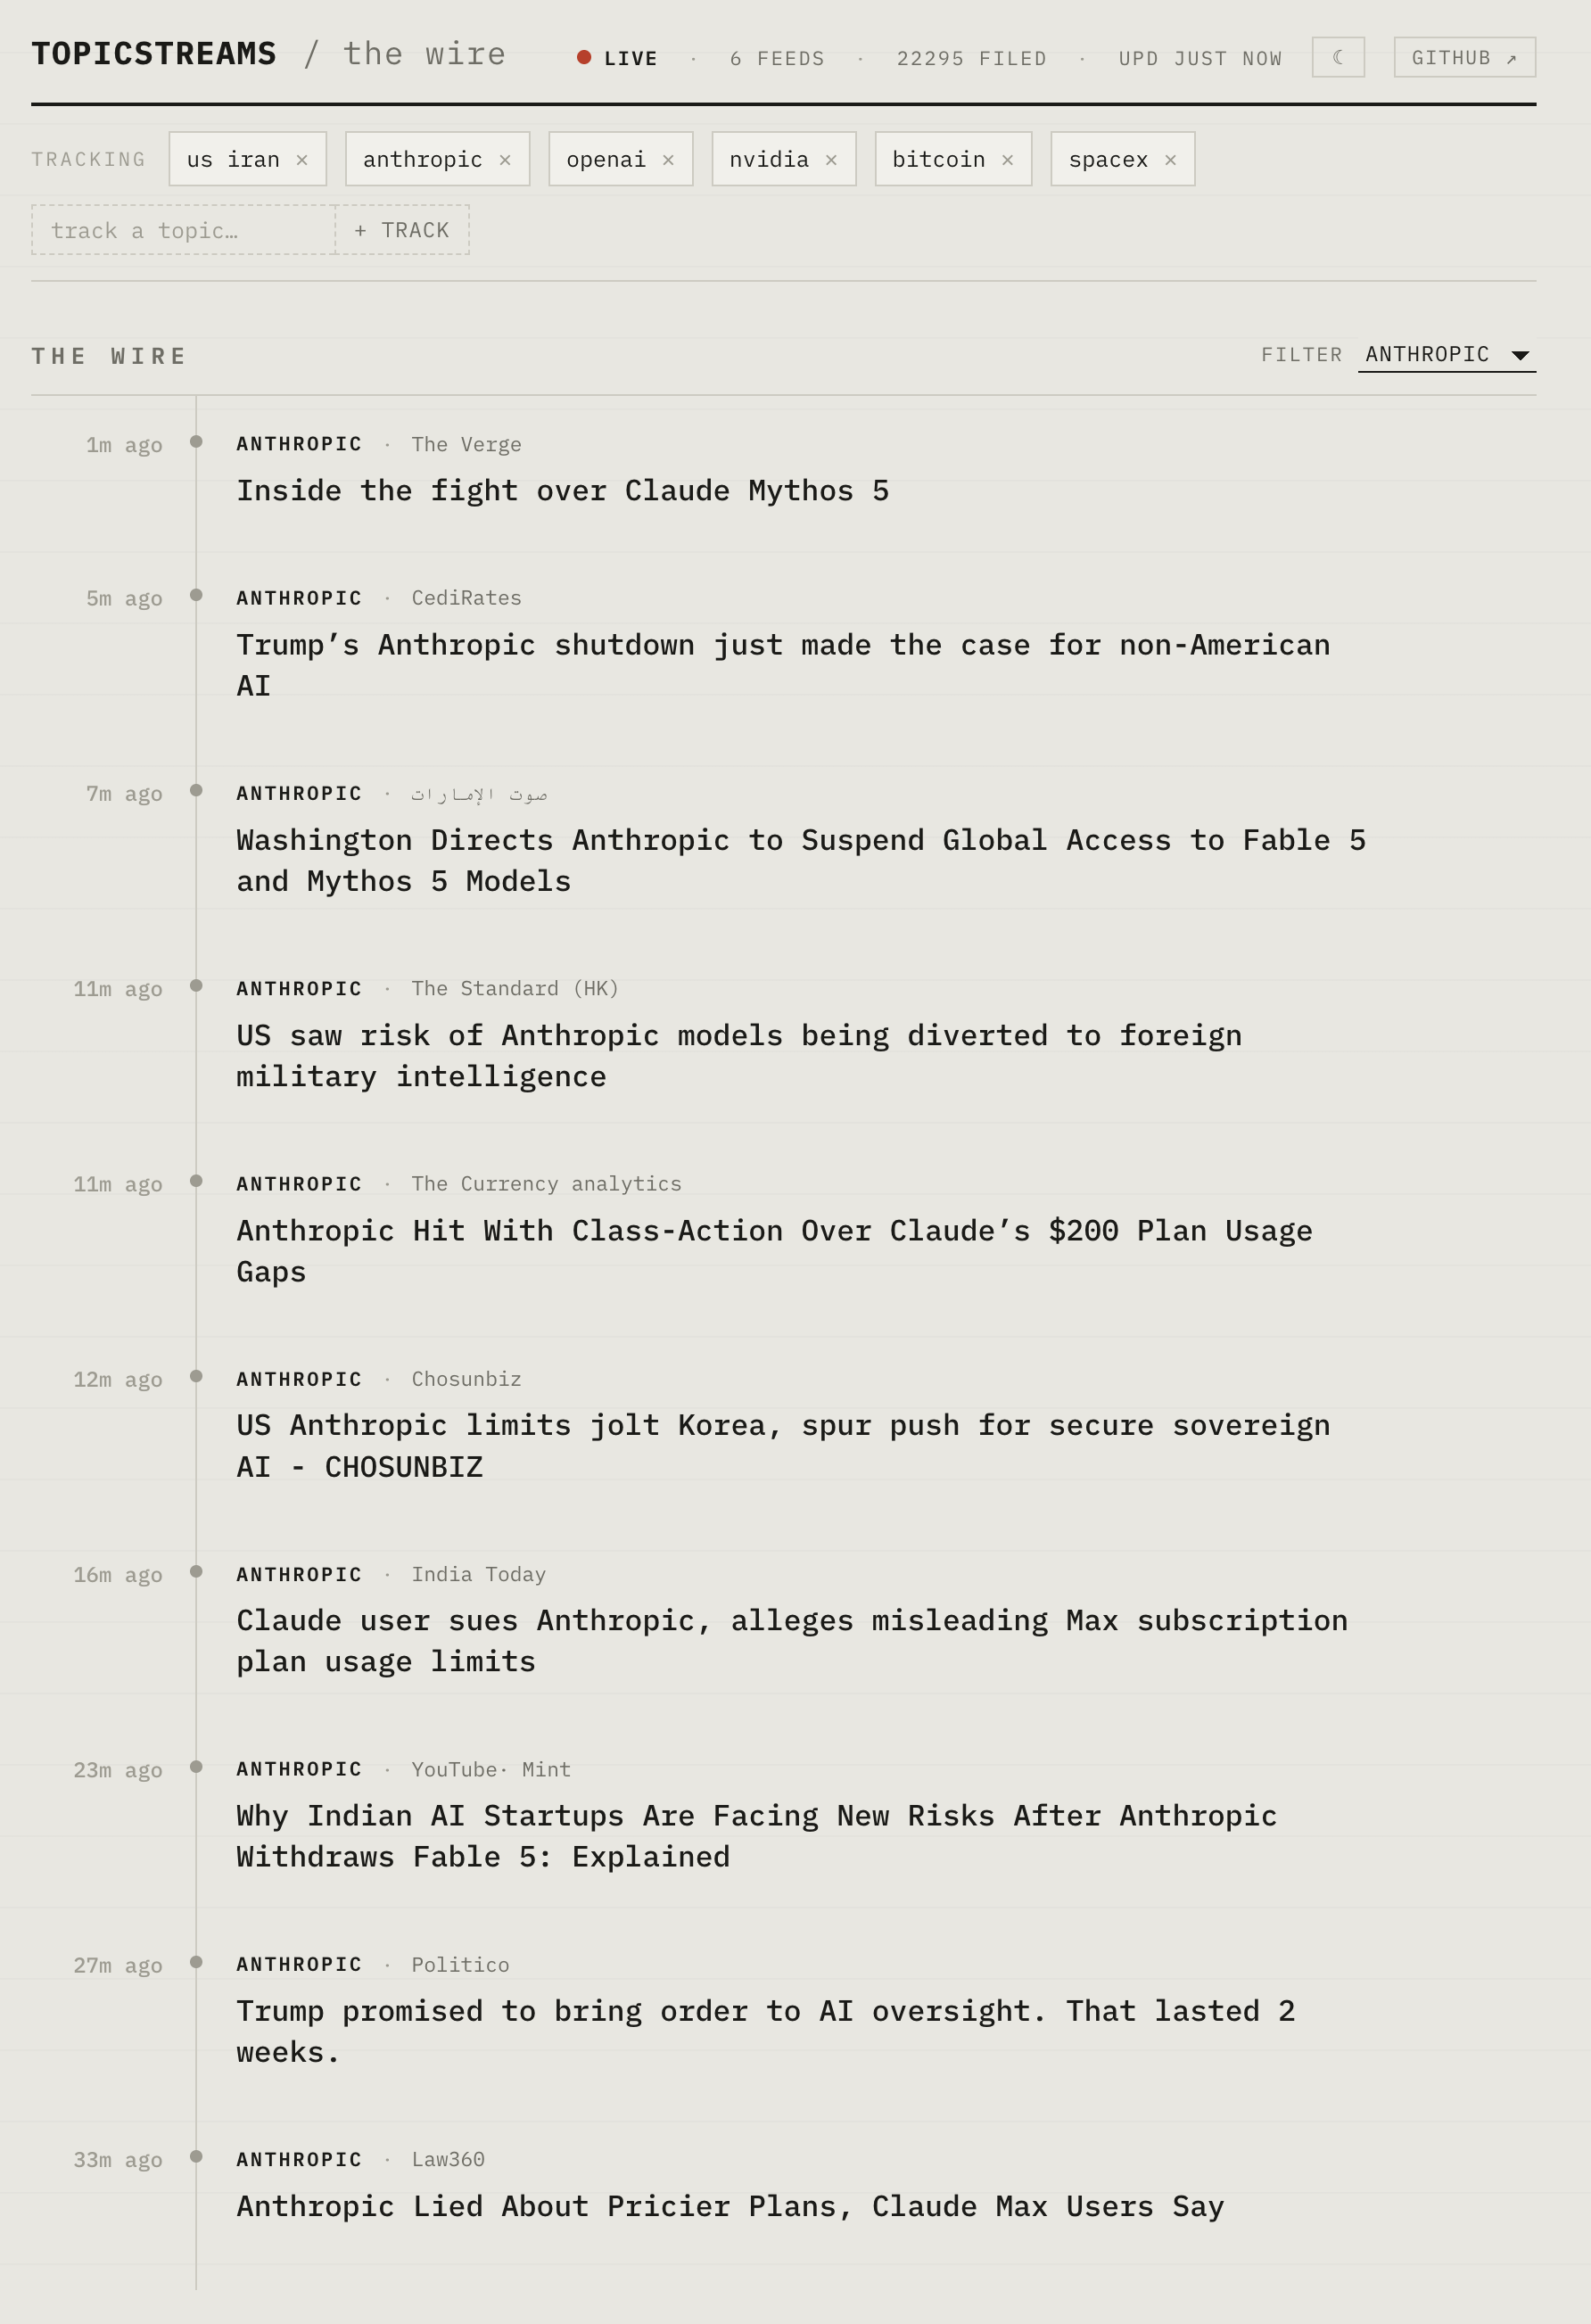
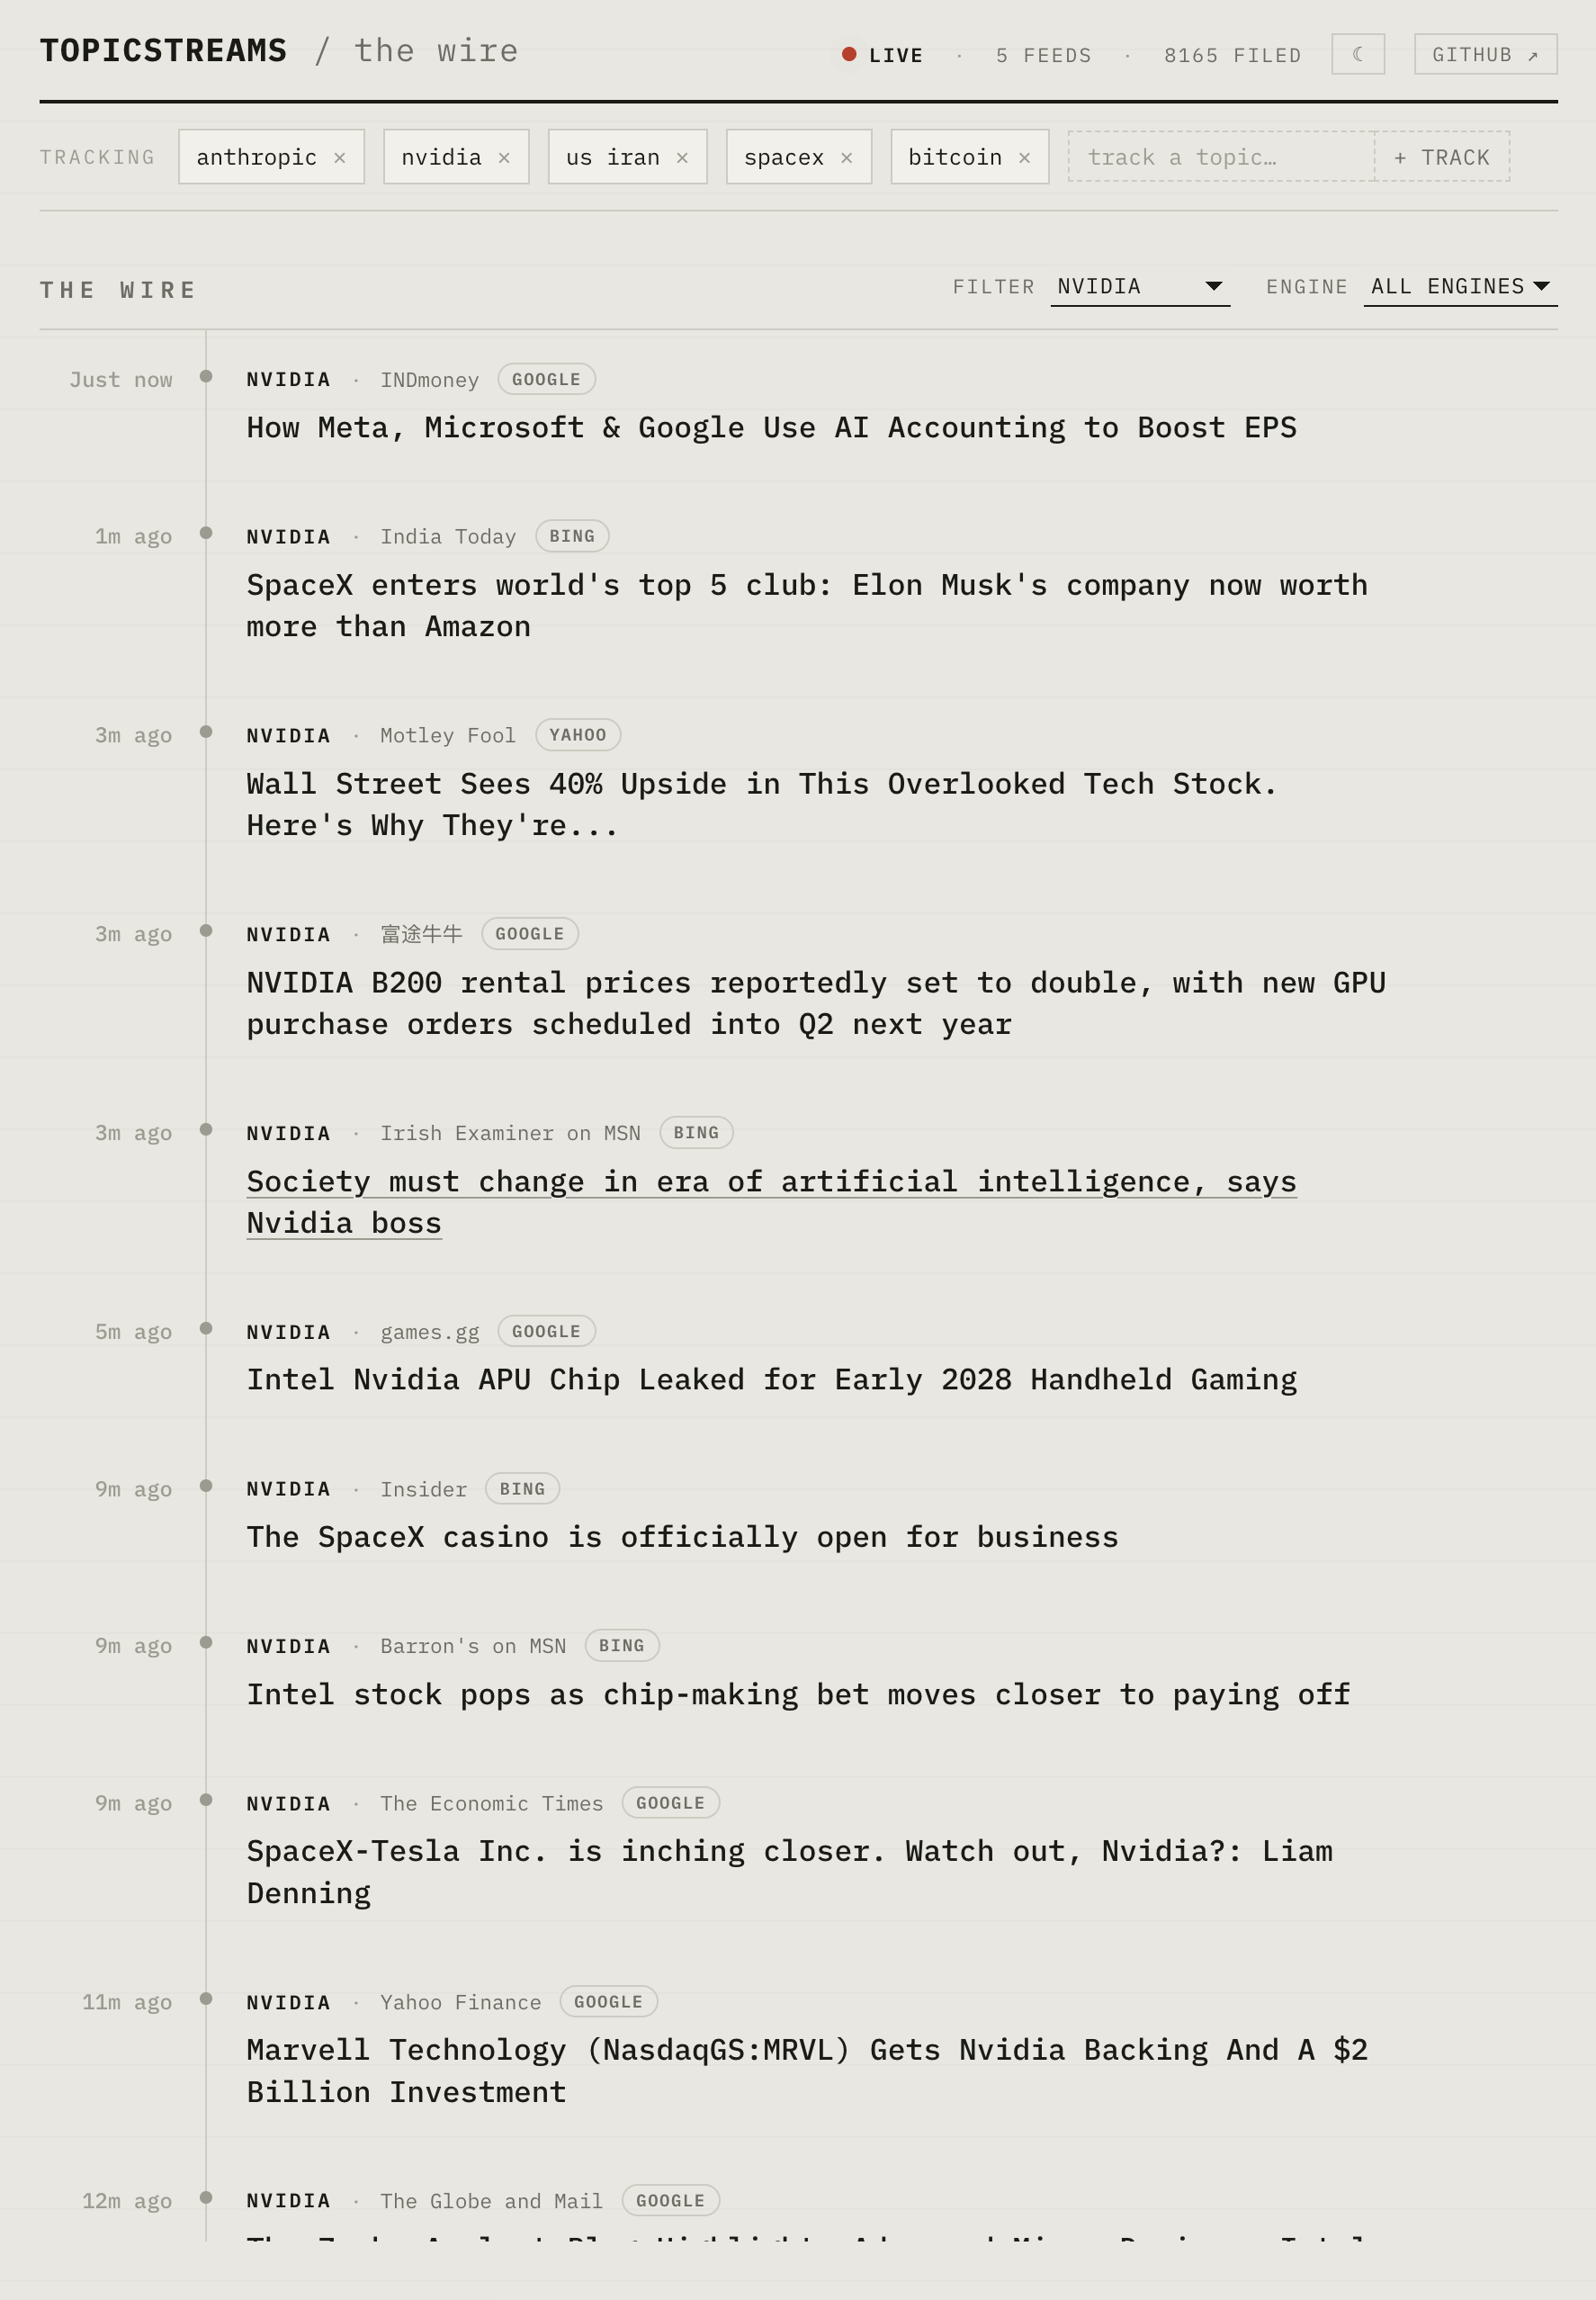
Update UI screenshot and reformat docs markdown

diff --git a/docs/CONFIGURATION.md b/docs/CONFIGURATION.md
@@ -48,20 +48,20 @@ vim config/anti_detection.yml
 
 ### API Settings
 
-| Variable    | Default | Description                                                      |
-| ----------- | ------- | ---------------------------------------------------------------- |
-| `API_PORT`   | `5000`  | Port inside the container where FastAPI listens                  |
-| `HOST_PORT`  | `5000`  | Port exposed on the host (set to `80` for production deployment) |
+| Variable     | Default | Description                                                              |
+| ------------ | ------- | ------------------------------------------------------------------------ |
+| `API_PORT`   | `5000`  | Port inside the container where FastAPI listens                          |
+| `HOST_PORT`  | `5000`  | Port exposed on the host (set to `80` for production deployment)         |
 | `LOG_FORMAT` | `text`  | `text` (human-readable) or `json` (structured logs, one object per line) |
 
 > **Note:** The `HOST_PORT` is mapped to `API_PORT` (e.g., `HOST_PORT=80` and `API_PORT=5000` means the app listens on container port 5000 but is accessible via host port 80). For production deployments, set `HOST_PORT=80` to use the standard HTTP port.
 
 ### Security Settings
 
-| Variable              | Default | Description                                                                                                                                              |
-| --------------------- | ------- | ------------------------------------------------------------------------------------------------------------------------------------------------------ |
-| `API_KEY`             | (unset) | When set, `POST`/`DELETE /api/v1/topics` require a matching `X-API-Key` header. Unset = writes are open (dev mode).                                      |
-| `CORS_ORIGINS`        | `*`     | Comma-separated allowed origins for browser requests.                                                                                                   |
+| Variable              | Default | Description                                                                                                                                                                                                                              |
+| --------------------- | ------- | ---------------------------------------------------------------------------------------------------------------------------------------------------------------------------------------------------------------------------------------- |
+| `API_KEY`             | (unset) | When set, `POST`/`DELETE /api/v1/topics` require a matching `X-API-Key` header. Unset = writes are open (dev mode).                                                                                                                      |
+| `CORS_ORIGINS`        | `*`     | Comma-separated allowed origins for browser requests.                                                                                                                                                                                    |
 | `TRUSTED_PROXY_COUNT` | `0`     | Reverse proxies in front of the app. `>0` makes the rate limiter read the client IP from `X-Forwarded-For` (Nth entry from the right); `0` = direct, header ignored. Set this to match your proxy chain, or one IP rate-limits everyone. |
 
 > **Behind a reverse proxy:** set `TRUSTED_PROXY_COUNT` to the number of proxies between the client and the app (usually `1`). Lock the origin so it only accepts traffic from those proxies — otherwise `X-Forwarded-For` can be spoofed by hitting the app directly.
@@ -69,7 +69,7 @@ vim config/anti_detection.yml
 ### Data Retention
 
 | Variable              | Default | Description                                                                                                  |
-| --------------------- | ------- | ----------------------------------------------------------------------------------------------------------- |
+| --------------------- | ------- | ------------------------------------------------------------------------------------------------------------ |
 | `NEWS_RETENTION_DAYS` | `30`    | Each scrape cycle purges news (feed events + orphaned articles) **and** scraper logs older than this window. |
 
 ## YAML Configuration Files
@@ -91,12 +91,12 @@ scraper:
   engine_strategy: all  # How enabled engines combine: all | fallback | rotate
 ```
 
-| Setting            | Default                          | Description                                                                                                                                                                                                            |
-| ------------------ | -------------------------------- | ---------------------------------------------------------------------------------------------------------------------------------------------------------------------------------------------------------------------- |
-| `scrape_interval`  | `60`                             | Interval in seconds between scrape cycles (measured from start to start). Set to `0` or negative for continuous scraping with no delay. See [Scrape Interval Behavior](SCRAPING_BEHAVIOR.md#scrape-interval-behavior). |
-| `max_pages`        | `1`                              | Number of result pages to scrape. Increase if you have high-volume topics or longer intervals.                                                                                                                         |
-| `engines`          | `[google, bing, yahoo, brave]`   | Search engines to scrape, as a list in priority order. Available: `google`, `bing`, `yahoo`, `brave`. (DuckDuckGo is not supported — it hard-blocks scraping; see [docs/DUCKDUCKGO_UNSUPPORTED.md](DUCKDUCKGO_UNSUPPORTED.md).) See [Search Engines](SCRAPING_BEHAVIOR.md#search-engines). |
-| `engine_strategy`  | `all`                            | How enabled engines combine per cycle: `all` (scrape every engine each cycle), `fallback` (try in order, stop at the first that returns items), or `rotate` (one engine per cycle, rotating).                          |
+| Setting           | Default                        | Description                                                                                                                                                                                                                                                                                |
+| ----------------- | ------------------------------ | ------------------------------------------------------------------------------------------------------------------------------------------------------------------------------------------------------------------------------------------------------------------------------------------ |
+| `scrape_interval` | `60`                           | Interval in seconds between scrape cycles (measured from start to start). Set to `0` or negative for continuous scraping with no delay. See [Scrape Interval Behavior](SCRAPING_BEHAVIOR.md#scrape-interval-behavior).                                                                     |
+| `max_pages`       | `1`                            | Number of result pages to scrape. Increase if you have high-volume topics or longer intervals.                                                                                                                                                                                             |
+| `engines`         | `[google, bing, yahoo, brave]` | Search engines to scrape, as a list in priority order. Available: `google`, `bing`, `yahoo`, `brave`. (DuckDuckGo is not supported — it hard-blocks scraping; see [docs/DUCKDUCKGO_UNSUPPORTED.md](DUCKDUCKGO_UNSUPPORTED.md).) See [Search Engines](SCRAPING_BEHAVIOR.md#search-engines). |
+| `engine_strategy` | `all`                          | How enabled engines combine per cycle: `all` (scrape every engine each cycle), `fallback` (try in order, stop at the first that returns items), or `rotate` (one engine per cycle, rotating).                                                                                              |
 
 ### Anti-Detection Settings (`config/anti_detection.yml`)
 
@@ -282,11 +282,11 @@ anti_detection:
       - "socks5://user:[email redacted]:1080"
 ```
 
-| Setting          | Default | Description                                                                 |
-| ---------------- | ------- | --------------------------------------------------------------------------- |
-| `enabled`        | `false` | Enable proxying. Implicitly `true` when `SCRAPER_PROXY` is set.             |
-| `proxies`        | `[]`    | Proxy URLs `scheme://[user:pass@]host:port` (http/https/socks5). One is chosen per browser launch. |
-| `SCRAPER_PROXY`  | unset   | Single proxy URL (env var). Overrides `proxies` and enables proxying.       |
+| Setting         | Default | Description                                                                                        |
+| --------------- | ------- | -------------------------------------------------------------------------------------------------- |
+| `enabled`       | `false` | Enable proxying. Implicitly `true` when `SCRAPER_PROXY` is set.                                    |
+| `proxies`       | `[]`    | Proxy URLs `scheme://[user:pass@]host:port` (http/https/socks5). One is chosen per browser launch. |
+| `SCRAPER_PROXY` | unset   | Single proxy URL (env var). Overrides `proxies` and enables proxying.                              |
 
 > **Match the location.** Set `timezone_id` and `geolocation` (above in
 > `anti_detection.yml`) to the proxy's exit country — a mismatch is itself a

diff --git a/docs/BLOCK_SIGNAL_FINDINGS.md b/docs/BLOCK_SIGNAL_FINDINGS.md
@@ -133,12 +133,12 @@ change needed.
 Two of four engines block at the scraper's sequential ~1 req/s rate; two do
 not. Aggressiveness order: **Google ≫ Brave ≫ (Bing, Yahoo: no block)**.
 
-| Engine | Requests to block | HTTP status | Redirect | Distinctive body markers | `detect_block` action |
-| ------ | ----------------- | ----------- | -------- | ------------------------ | --------------------- |
-| Google | ~54 (~80 s)       | 429         | → `/sorry/index?continue=…` | "detected unusual traffic", captcha-form | already grounded (/sorry/ + keywords); 429 net fires first — keep as-is |
-| Brave  | ~250 (~8 min)     | 429         | none (same URL) | "decided to schedule a captcha for you", `page:"/captcha"` | add body-marker check (429 net already catches it) |
-| Bing   | none (~440 req)   | 200         | none     | n/a — full results throughout | keep `None` until a block is seen |
-| Yahoo  | none (~900 req)   | 200         | none     | n/a — full results throughout | keep `None` until a block is seen |
+| Engine | Requests to block | HTTP status | Redirect                    | Distinctive body markers                                   | `detect_block` action                                                   |
+| ------ | ----------------- | ----------- | --------------------------- | ---------------------------------------------------------- | ----------------------------------------------------------------------- |
+| Google | ~54 (~80 s)       | 429         | → `/sorry/index?continue=…` | "detected unusual traffic", captcha-form                   | already grounded (/sorry/ + keywords); 429 net fires first — keep as-is |
+| Brave  | ~250 (~8 min)     | 429         | none (same URL)             | "decided to schedule a captcha for you", `page:"/captcha"` | add body-marker check (429 net already catches it)                      |
+| Bing   | none (~440 req)   | 200         | none                        | n/a — full results throughout                              | keep `None` until a block is seen                                       |
+| Yahoo  | none (~900 req)   | 200         | none                        | n/a — full results throughout                              | keep `None` until a block is seen                                       |
 
 ## Throughput observed (peak queries/minute)
 
@@ -147,12 +147,12 @@ page-load-bound, not set by `scrape_interval` — at `scrape_interval: 1` the
 limiter is each request's navigation + 300 ms settle, giving roughly 1 req/s.
 Peak = the busiest single 60 s window.
 
-| Engine | Peak req/min | ~req/s | Source of number | Cumulative reqs before block |
-| ------ | ------------ | ------ | ---------------- | ---------------------------- |
-| Yahoo  | **57**       | ~0.95  | measured (capture log, minute 09:09) | no block (~900+) |
-| Bing   | **~50**      | ~0.8   | derived (~1.0–1.3 s cycles; clean log lost) | no block (~440) |
-| Google | **47**       | ~0.78  | measured (current container, minute 09:50) | **~54 (~80 s)** |
-| Brave  | **~33**      | ~0.55  | derived (250 reqs over ~457 s; ~1.7–2.1 s cycles) | **~250 (~8 min)** |
+| Engine | Peak req/min | ~req/s | Source of number                                  | Cumulative reqs before block |
+| ------ | ------------ | ------ | ------------------------------------------------- | ---------------------------- |
+| Yahoo  | **57**       | ~0.95  | measured (capture log, minute 09:09)              | no block (~900+)             |
+| Bing   | **~50**      | ~0.8   | derived (~1.0–1.3 s cycles; clean log lost)       | no block (~440)              |
+| Google | **47**       | ~0.78  | measured (current container, minute 09:50)        | **~54 (~80 s)**              |
+| Brave  | **~33**      | ~0.55  | derived (250 reqs over ~457 s; ~1.7–2.1 s cycles) | **~250 (~8 min)**            |
 
 Notes:
 - Brave/Bing peaks are estimates: Brave's and Bing's containers were

diff --git a/docs/API_REFERENCE.md b/docs/API_REFERENCE.md
@@ -119,10 +119,10 @@ Entries from soft-deleted (inactive) topics are excluded.
 
 **Query Parameters:**
 
-| Parameter   | Type    | Default | Range | Description                                       |
-| ----------- | ------- | ------- | ----- | ------------------------------------------------- |
-| `limit`     | integer | `20`    | 1-100 | Number of entries per page                        |
-| `before_id` | integer | —       | ≥1    | Return only entries older than this id (cursor)   |
+| Parameter   | Type    | Default | Range | Description                                                                              |
+| ----------- | ------- | ------- | ----- | ---------------------------------------------------------------------------------------- |
+| `limit`     | integer | `20`    | 1-100 | Number of entries per page                                                               |
+| `before_id` | integer | —       | ≥1    | Return only entries older than this id (cursor)                                          |
 | `engine`    | string  | —       | —     | Show only entries surfaced by this engine (e.g. `bing`). Orthogonal to the topic filter. |
 
 #### List Feed Engines
@@ -149,10 +149,10 @@ GET /api/v1/news/{topic_name}
 
 **Query Parameters:**
 
-| Parameter   | Type    | Default | Range | Description                                       |
-| ----------- | ------- | ------- | ----- | ------------------------------------------------- |
-| `limit`     | integer | `20`    | 1-100 | Number of entries per page                        |
-| `before_id` | integer | —       | ≥1    | Return only entries older than this id (cursor)   |
+| Parameter   | Type    | Default | Range | Description                                              |
+| ----------- | ------- | ------- | ----- | -------------------------------------------------------- |
+| `limit`     | integer | `20`    | 1-100 | Number of entries per page                               |
+| `before_id` | integer | —       | ≥1    | Return only entries older than this id (cursor)          |
 | `engine`    | string  | —       | —     | Show only entries surfaced by this engine (e.g. `bing`). |
 
 **Response:**

diff --git a/docs/DUCKDUCKGO_UNSUPPORTED.md b/docs/DUCKDUCKGO_UNSUPPORTED.md
@@ -20,13 +20,13 @@ scraping DDG's **news** vertical (not web search) and parsing the results into
 DuckDuckGo aggressively fingerprints automated access. Every surface that would
 yield **news** is blocked, and the surfaces that respond don't return news:
 
-| Surface | Result |
-| ------- | ------ |
-| `duckduckgo.com/` (homepage) | 200 — reachable |
-| `duckduckgo.com/?q=…&iar=news&ia=news` (news vertical) | 200 but **redirects to a static block page**, `duckduckgo.com/static-pages/418.html` ("I'm a teapot"). No results. |
+| Surface                                                     | Result                                                                                                             |
+| ----------------------------------------------------------- | ------------------------------------------------------------------------------------------------------------------ |
+| `duckduckgo.com/` (homepage)                                | 200 — reachable                                                                                                    |
+| `duckduckgo.com/?q=…&iar=news&ia=news` (news vertical)      | 200 but **redirects to a static block page**, `duckduckgo.com/static-pages/418.html` ("I'm a teapot"). No results. |
 | `news.js` JSON API (what DDG's own frontend calls for news) | Unusable — it requires a `vqd` token, and the only page that carries the token is the news SERP, which is blocked. |
-| `lite.duckduckgo.com/lite/?q=…` | Returns results **once**, then `403` under light load. Also: **web** results, not a news vertical. |
-| `html.duckduckgo.com/html/?q=…` | Same — 200 once, then `403` / "If this persists…" error. **Web** results, not news. |
+| `lite.duckduckgo.com/lite/?q=…`                             | Returns results **once**, then `403` under light load. Also: **web** results, not a news vertical.                 |
+| `html.duckduckgo.com/html/?q=…`                             | Same — 200 once, then `403` / "If this persists…" error. **Web** results, not news.                                |
 
 So:
 

diff --git a/docs/SCRAPING_BEHAVIOR.md b/docs/SCRAPING_BEHAVIOR.md
@@ -9,12 +9,12 @@ find result items, parse an item, and detect a block — so the runner
 
 All four supported engines are enabled by default (`engine_strategy: all`).
 
-| Engine       | Name (config) | Status                                                                       |
-| ------------ | ------------- | ---------------------------------------------------------------------------- |
-| Google News  | `google`      | On by default; News tab, newest-first, past hour.                            |
-| Bing News    | `bing`        | On by default. Date sort + freshness via `qft` filters.                      |
-| Yahoo News   | `yahoo`       | On by default. Links unwrapped from Yahoo's redirector.                      |
-| Brave News   | `brave`       | On by default. Freshness via `tf`; relevance-ranked.                         |
+| Engine      | Name (config) | Status                                                  |
+| ----------- | ------------- | ------------------------------------------------------- |
+| Google News | `google`      | On by default; News tab, newest-first, past hour.       |
+| Bing News   | `bing`        | On by default. Date sort + freshness via `qft` filters. |
+| Yahoo News  | `yahoo`       | On by default. Links unwrapped from Yahoo's redirector. |
+| Brave News  | `brave`       | On by default. Freshness via `tf`; relevance-ranked.    |
 
 **DuckDuckGo is not supported** — it hard-blocks automated access, so it cannot
 be scraped reliably. See [DUCKDUCKGO_UNSUPPORTED.md](DUCKDUCKGO_UNSUPPORTED.md)

diff --git a/docs/BLOCK_SIGNAL_CHARACTERIZATION.md b/docs/BLOCK_SIGNAL_CHARACTERIZATION.md
@@ -41,12 +41,12 @@ block/challenge/redirect page. Those need a per-engine (or generic-redirect)
 
 ## Current per-engine state (as of 2026-06-17)
 
-| Engine | `detect_block` today | Grounded in a real observation? |
-| ------ | -------------------- | ------------------------------- |
+| Engine     | `detect_block` today                                                                                                                | Grounded in a real observation?    |
+| ---------- | ----------------------------------------------------------------------------------------------------------------------------------- | ---------------------------------- |
 | **Google** | `/sorry/` redirect (definitive) + captcha keywords (`captcha`, `unusual traffic`, from `anti_detection.captcha_detection.keywords`) | ✅ Yes (CAPTCHA work 2026-06-11/12) |
-| **Bing** | `return None` (stub) | ❌ No — never observed a block |
-| **Yahoo** | `return None` (stub) | ❌ No |
-| **Brave** | `return None` (stub) | ❌ No |
+| **Bing**   | `return None` (stub)                                                                                                                | ❌ No — never observed a block      |
+| **Yahoo**  | `return None` (stub)                                                                                                                | ❌ No                               |
+| **Brave**  | `return None` (stub)                                                                                                                | ❌ No                               |
 
 Bing/Yahoo/Brave were deliberately left as `None`: we'd only ever seen their
 *success* pages, and hardcoding a guessed pattern risks false-positiving on real

diff --git a/docs/ANTI_BOT_DETECTION.md b/docs/ANTI_BOT_DETECTION.md
@@ -109,9 +109,9 @@ playwright-stealth support exists in the code (configurable via `playwright_stea
 
 The signals stealth used to mask are covered without JS patching:
 
-| Detection Vector      | Covered by                                        |
-| --------------------- | ------------------------------------------------- |
-| `navigator.webdriver` | `--disable-blink-features=AutomationControlled`   |
+| Detection Vector      | Covered by                                          |
+| --------------------- | --------------------------------------------------- |
+| `navigator.webdriver` | `--disable-blink-features=AutomationControlled`     |
 | User agent / brands   | Runtime-derived fingerprint (`_detect_fingerprint`) |
 
 ### 4. Memory Management & Additional Strategies